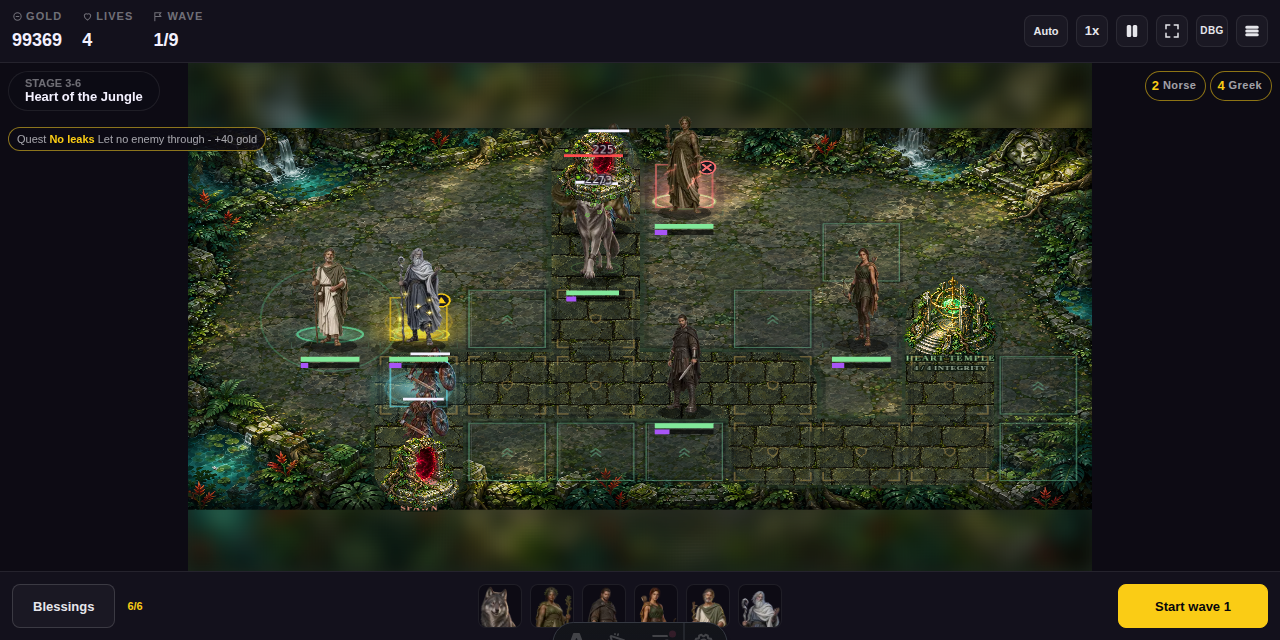
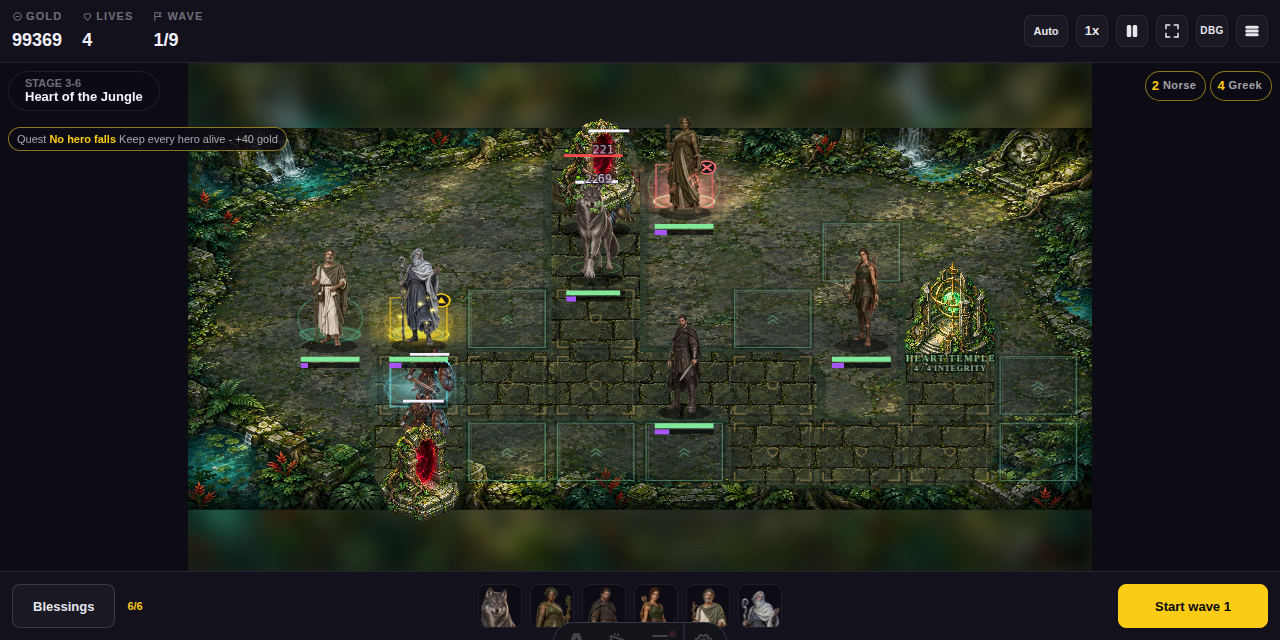
td: R18 prototype: upright, depth-sorted spawn gates under tilt
Claude-Session: https://claude.ai/code/session_017kGFTMkAhcjiEsc1cjnEXq

diff --git a/src/game/td/map-scene.js b/src/game/td/map-scene.js
@@ -112,8 +112,13 @@ export function paintedStructureLayer(layers, role) {
 }
 
 export function createMapScene(PIXI, game, {
-  ground, structures, foreground, overlay, reducedMotion = false, textures = {},
+  ground, structures, foreground, overlay, reducedMotion = false, textures = {}, tilt = null,
 }) {
+  // R18 tilt prototype: `tilt` = { k, units, zHero }. The ground layers are squashed to k, so
+  // upright sprites (gates, sanctuary, labels) are counter-scaled by 1/k, and the painted
+  // spawn gates join the unit layer, depth-sorted with the heroes (a hero below the gate
+  // stands in front of it, one above it behind it; enemies still emerge through it).
+  const tiltK = tilt?.k ?? 1;
   const theme = mapSceneFor(game.map);
   const STONE = theme.stone, GOLD = theme.gold, LIGHT = theme.light;
   const owned = [];
@@ -326,11 +331,13 @@ export function createMapScene(PIXI, game, {
     back.ellipse(3, 16, padWidth, padDepth * 0.7).fill({ color: 0x06111b, alpha: 0.17 });
     back.ellipse(2, 14, padWidth * 0.8, padDepth * 0.5).fill({ color: 0x06111b, alpha: 0.14 });
     front.visible = false;
-    const sprite = add(paintedStructureLayer({ structures, foreground }, role), new PIXI.Sprite(texture));
+    const sorted = tilt?.units && role === "spawn";
+    const sprite = add(sorted ? tilt.units : paintedStructureLayer({ structures, foreground }, role), new PIXI.Sprite(texture));
+    if (sorted) sprite.zIndex = tilt.zHero + point.y + 40; // feet of the gate, like a hero's
     if (theme.structureTint) sprite.tint = theme.structureTint;
     sprite.anchor.set(0.5);
     sprite.position.set(point.x, point.y);
-    sprite.width = width; sprite.height = height;
+    sprite.width = width; sprite.height = height / tiltK;
   }
 
   function label(text, x, y, size, color) {
@@ -341,7 +348,7 @@ export function createMapScene(PIXI, game, {
       letterSpacing: size >= 10 ? 1.3 : 0.5,
       stroke: { color: theme.labels.stroke, width: 3 },
     } }));
-    t.anchor.set(0.5); t.position.set(x, y); return t;
+    t.anchor.set(0.5); t.scale.y = 1 / tiltK; t.position.set(x, y); return t;
   }
   for (const spawn of spawns) label(theme.labels.spawn[0], spawn.x + 1, spawn.y + 51, 10, theme.labels.spawn[1]);
   label(theme.labels.base[0], base.x + 1, base.y + 55, 10, theme.labels.base[1]);

diff --git a/src/game/td/render.js b/src/game/td/render.js
@@ -2048,7 +2048,7 @@ export async function createRenderer(canvas, game, options = {}) {
       load("spawn", "stone gate"), load("base", "sanctuary"), load("road", "stone paving"),
       buildBgTexture(),
     ]);
-    mapScene = createMapScene(PIXI, game, { ground: layerBg, structures: layerStructures, foreground: layerForeground, overlay: layerHud, reducedMotion, textures: { spawn: spawnTexture, base: baseTexture, road: roadTexture } });
+    mapScene = createMapScene(PIXI, game, { ground: layerBg, structures: layerStructures, foreground: layerForeground, overlay: layerHud, reducedMotion, tilt: tiltOn ? { k: tiltK, units: layerUnits, zHero: Z_HERO } : null, textures: { spawn: spawnTexture, base: baseTexture, road: roadTexture } });
   } else buildBgTexture();
   buildBg();
   buildPortals();

diff --git a/TOWER_DEFENSE_TOP_CLIPPING_CONCEPT.md b/TOWER_DEFENSE_TOP_CLIPPING_CONCEPT.md
@@ -40,6 +40,7 @@ changes; remove `tuning.board.tilt` to switch it off everywhere.
 - **Screenshots** (same map, six heroes, boss and flyer at the top spawn, tilt off vs on) in
   `artifacts/td-tilt-prototype/`: `tilt-off-*.png` / `tilt-on-*.png`, at 1280 × 640 and 844 × 390.
   Result: the top-row hero that touches the canvas edge with tilt off stands fully inside with tilt on.
+- **Portal overlap fix (owner feedback):** the squashed ground flattened the painted spawn gates and drew them over everything, so heroes next to a gate were covered. Gates and labels are now counter-scaled (upright, full size) and the spawn gates are depth-sorted with the heroes (a hero below a gate stands in front of it, enemies still emerge through it). Before/after crops: `artifacts/td-tilt-prototype/portal-overlap-*.png`. The Heart Temple (base) stays behind units as before but is also counter-scaled.
 - **Not in the prototype:** buff pills and the boss health bar are not moved yet; the bands are
   the first-cut blurred copy of the map art; HP bars, rings and status icons are squashed with the
   ground (bars ~25% thinner); portal labels are squashed; no depth scaling and no lower hero feet.
